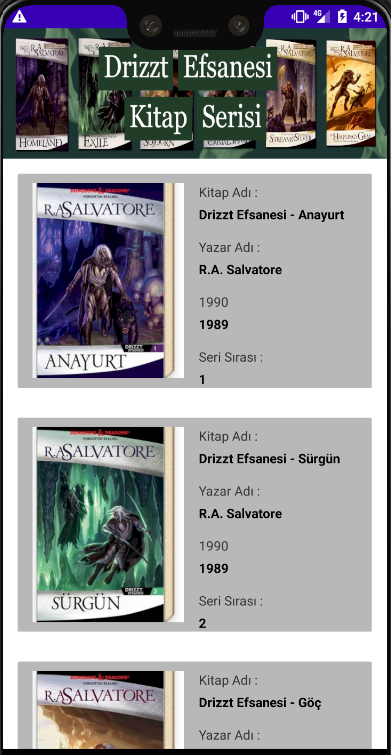
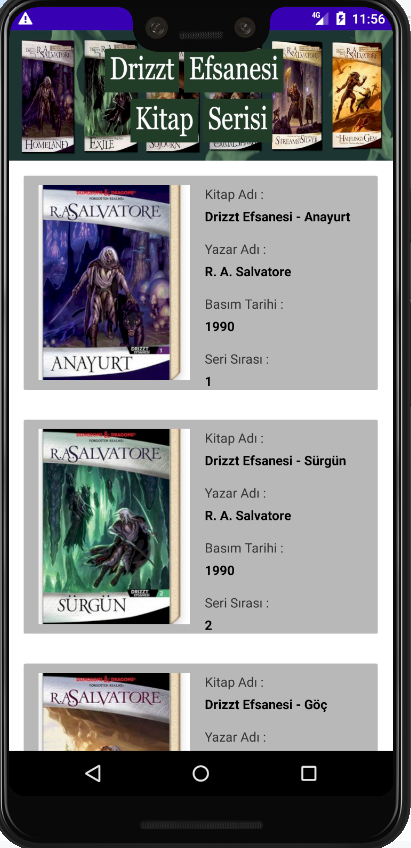
sslerde değişiklik yapıldı hatalar düzeltildi

diff --git a/app/src/main/java/com/h5190077/can_caglar_kirici_final/adaptor/KitapAdaptor.java b/app/src/main/java/com/h5190077/can_caglar_kirici_final/adaptor/KitapAdaptor.java
@@ -46,6 +46,7 @@ public class KitapAdaptor extends RecyclerView.Adapter<KitapViewHolder> {
     public void onBindViewHolder(@NonNull KitapViewHolder viewHolder, int position) {
 
         viewHolder.txtIsim.setText(kitaplar.get(position).getKitapAdi());
+        viewHolder.txtYazarAdi.setText(kitaplar.get(position).getYazarAdi());
         viewHolder.txtBasimTarihi.setText(kitaplar.get(position).getBasimTarihi());
         viewHolder.txtSeriSirasi.setText(kitaplar.get(position).getSeriSirasi());
         GlideUtil.resmiIndiripGoster(context,kitaplar.get(position).getKucukLogoUrl(),viewHolder.imgKitap);

diff --git a/app/src/main/java/com/h5190077/can_caglar_kirici_final/adaptor/KitapViewHolder.java b/app/src/main/java/com/h5190077/can_caglar_kirici_final/adaptor/KitapViewHolder.java
@@ -24,7 +24,7 @@ public class KitapViewHolder extends RecyclerView.ViewHolder {
         txtIsim = itemView.findViewById(R.id.txtKitapAdi);
         txtYazarAdi = itemView.findViewById(R.id.txtYazarAdi);
         txtSeriSirasi = itemView.findViewById(R.id.txtSeriSirasi);
-        txtBasimTarihi = itemView.findViewById(R.id.txtBasimTarihiGoster);
+        txtBasimTarihi = itemView.findViewById(R.id.txtBasimTarihi);
 
         cardView.setOnClickListener(new View.OnClickListener() {
             @Override
